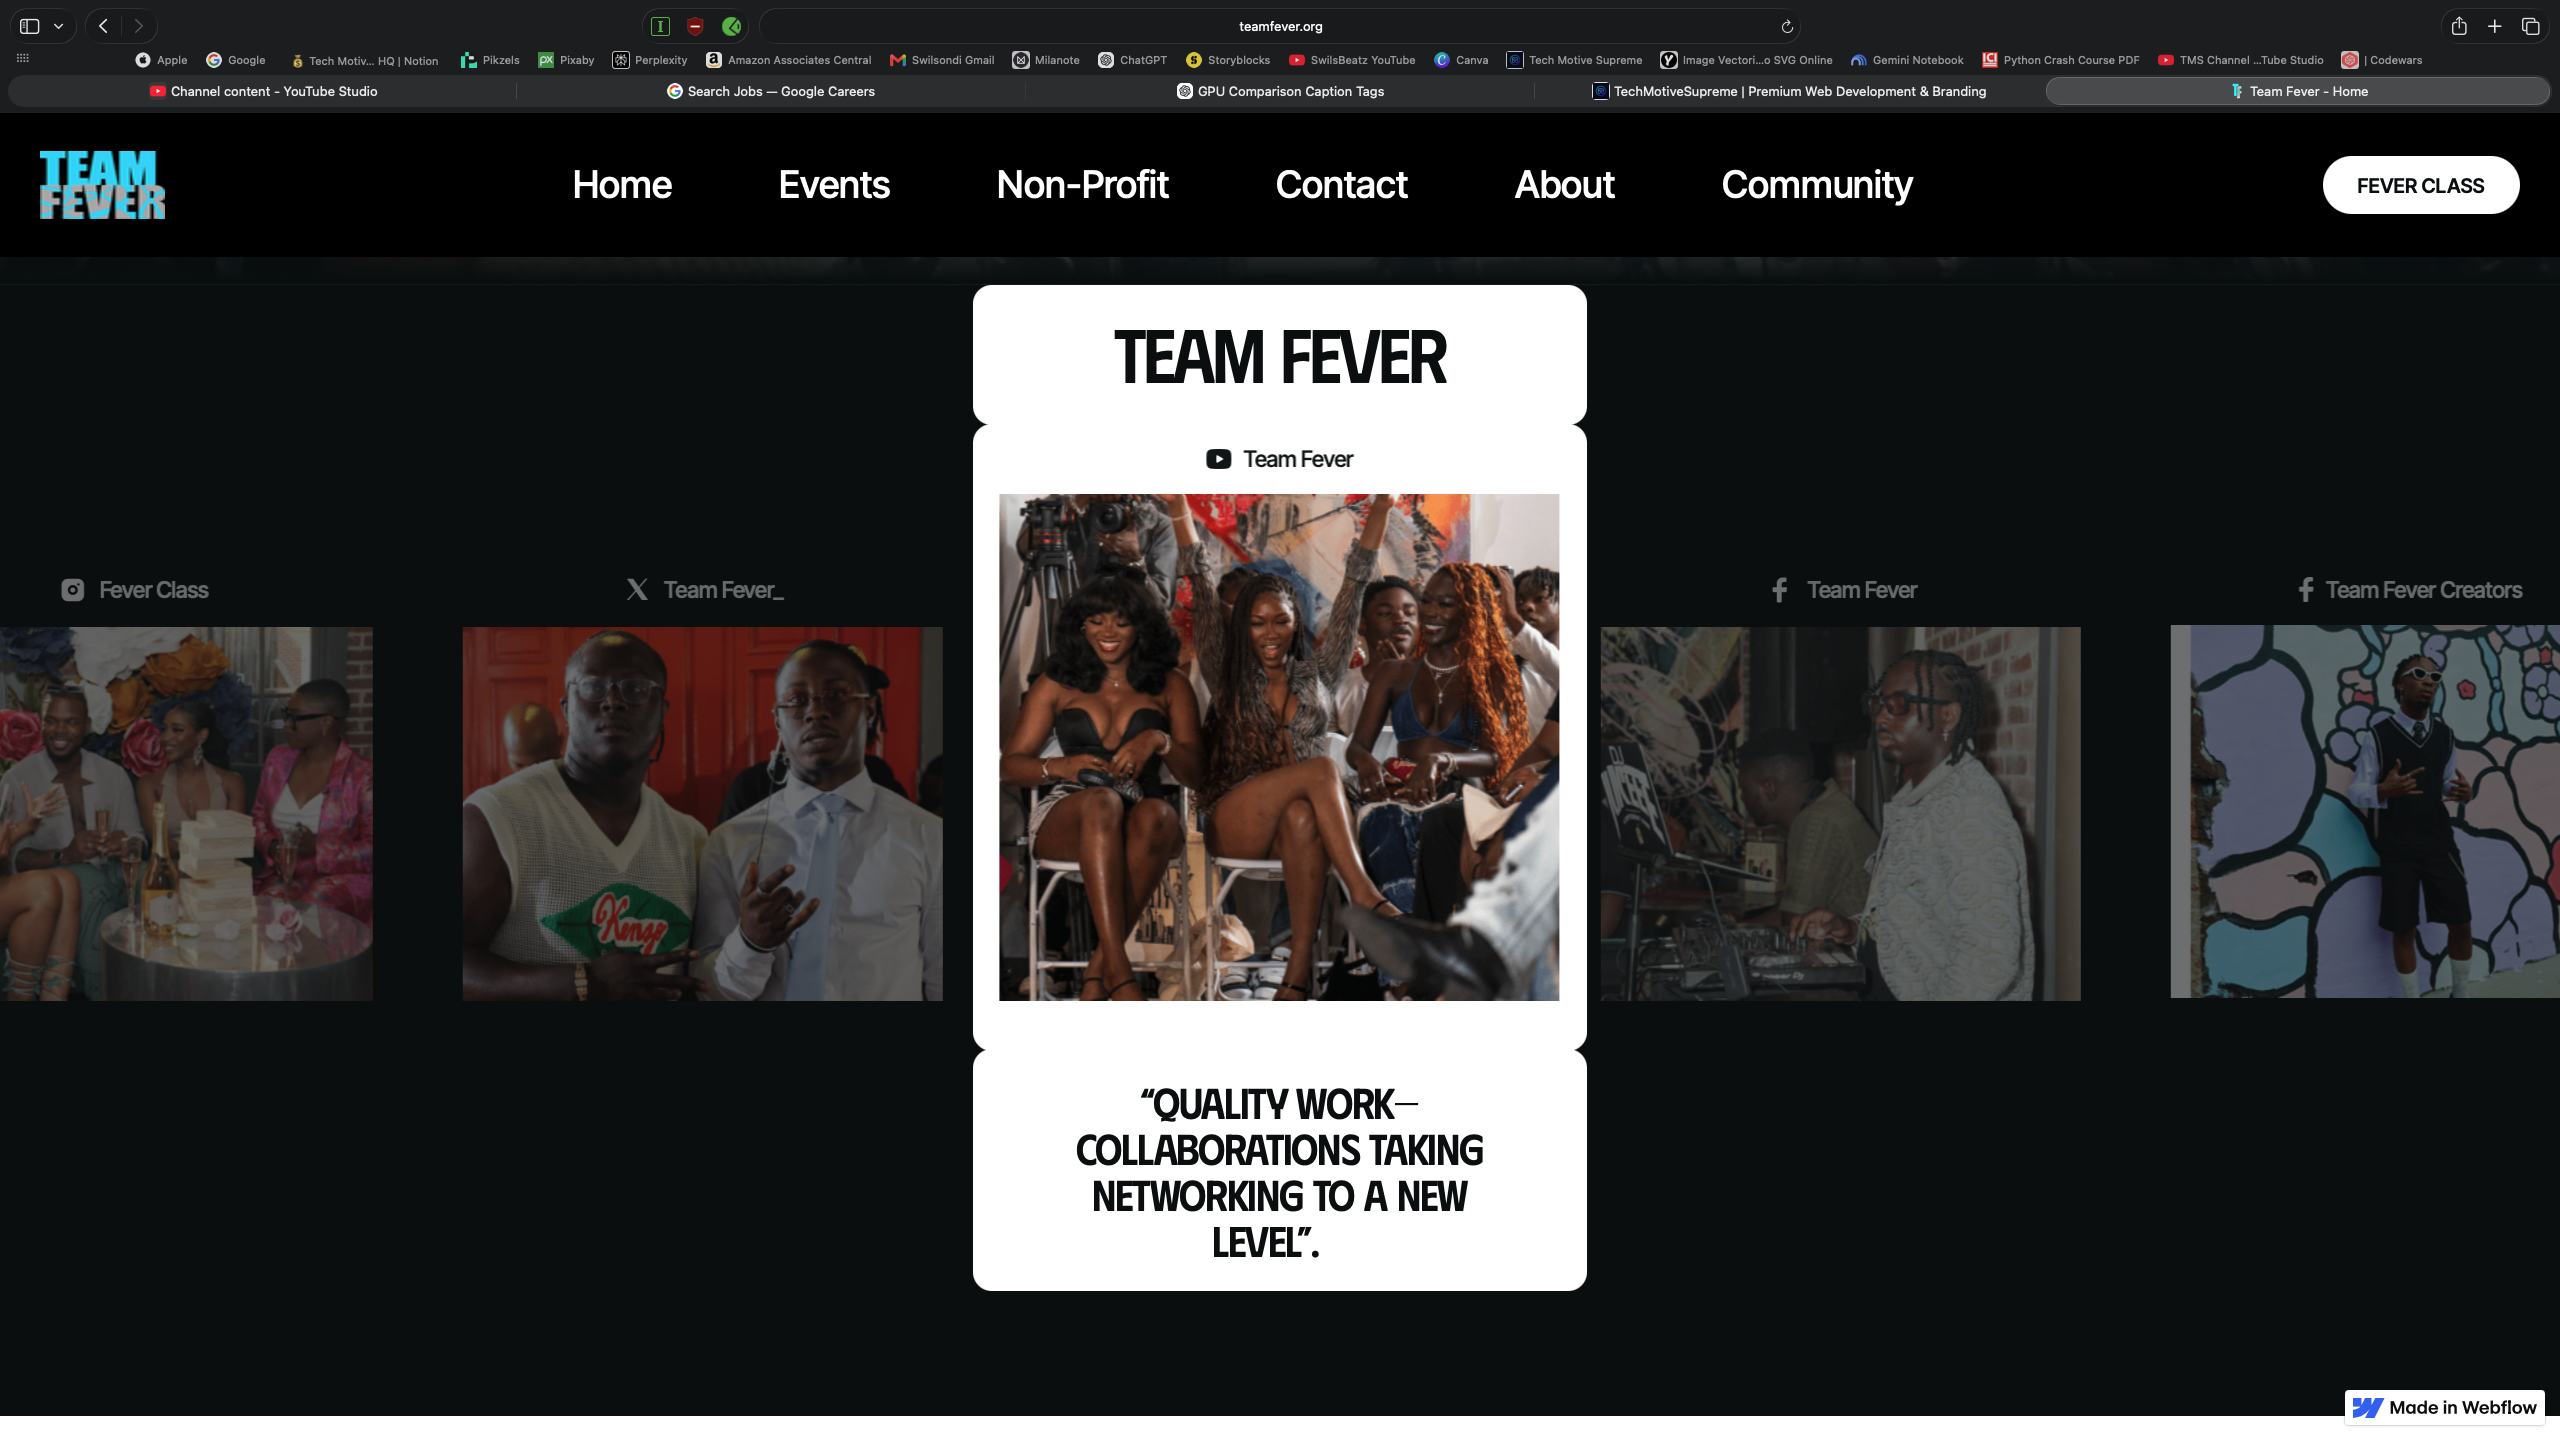
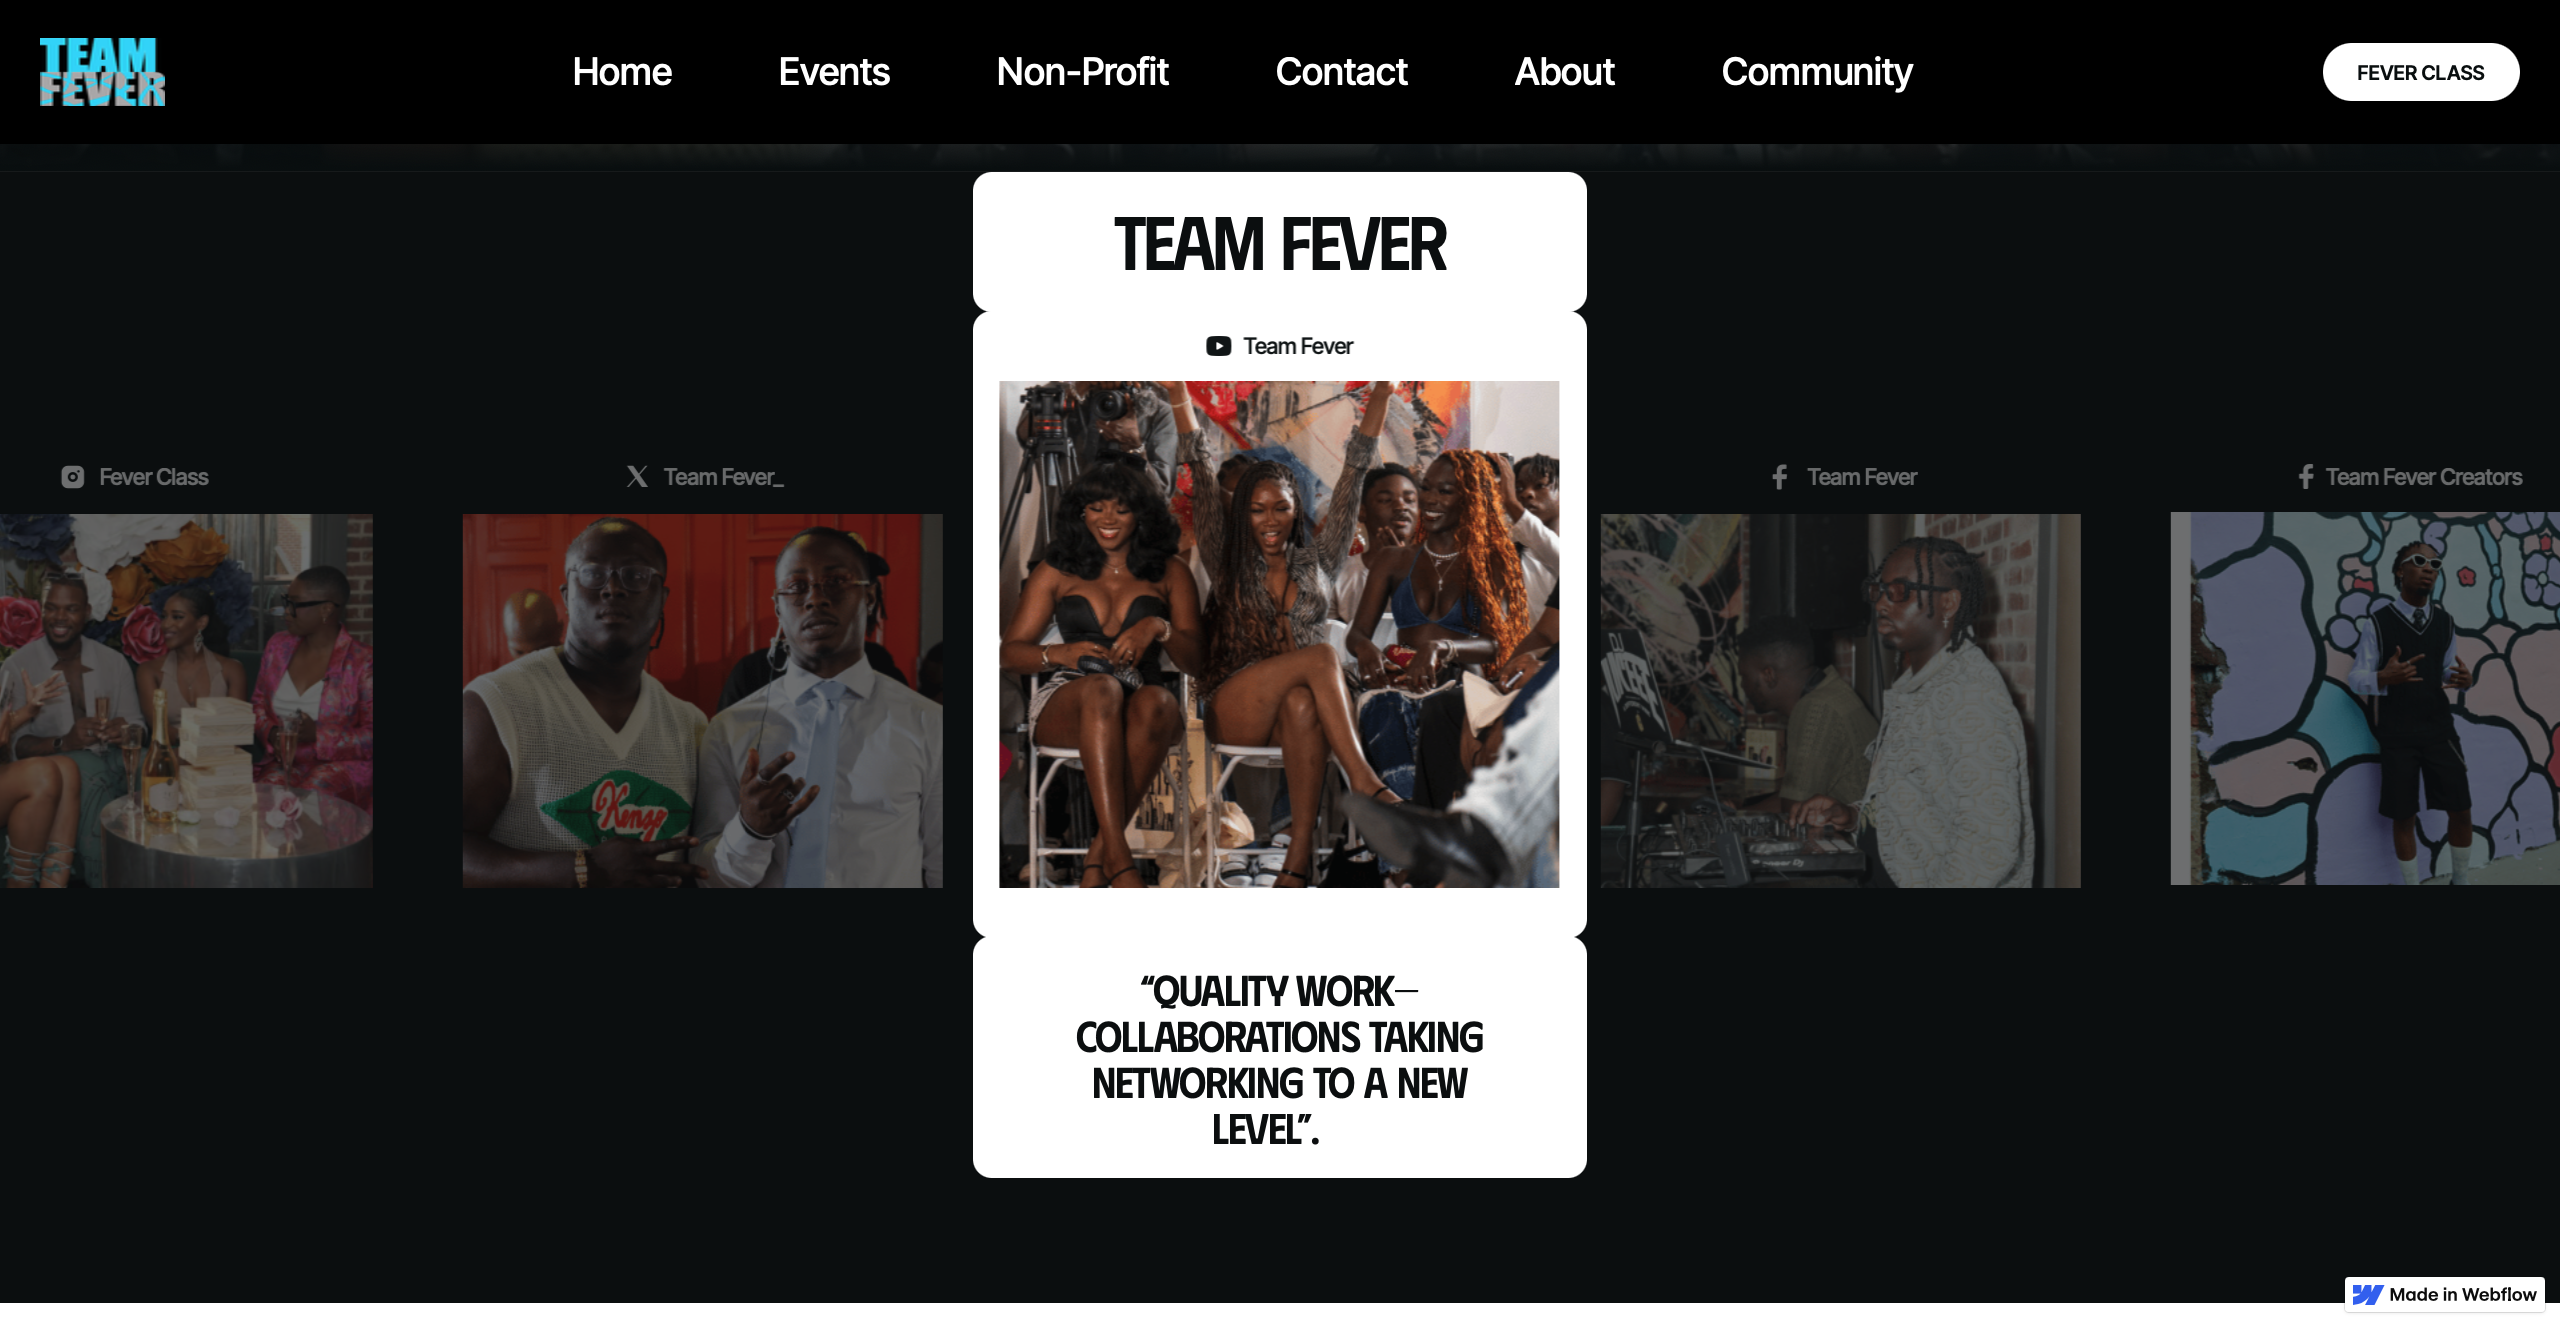
Add Team Fever screenshot to portfolio page

Changed region(s): [[0.0, 0.0, 1.0, 0.896], [0.8438, 0.3399, 1.0, 0.7106], [0.9062, 0.9578, 1.0, 0.9887]]

diff --git a/demo/src/pages/PortfolioPage.jsx b/demo/src/pages/PortfolioPage.jsx
@@ -6,6 +6,7 @@ import Footer from "@/components/Footer"
 import { motion } from "framer-motion"
 import { ArrowRight, ExternalLink, Globe, Palette, Zap, Target, LifeBuoy } from "lucide-react"
 import { Helmet } from "react-helmet"
+import teamFeverScreenshot from "@/assets/teamfever-screenshot.png"
 
 // Helper
 const normalize = (str) => (str ? str.trim().toLowerCase() : "")
@@ -17,8 +18,7 @@ const portfolioItems = [
 		title: "Team Fever",
 		subtitle: "Culture & Community Collective",
 		url: "https://www.teamfever.org",
-		image: null,
-		accent: "from-fuchsia-600 via-purple-600 to-indigo-700",
+		image: teamFeverScreenshot,
 		description:
 			"A live site built for Team Fever, a creative collective centered on culture, fashion, and community events. Includes event promotion, community sections, and social integration.",
 		features: ["Event Promotion", "Community Sections", "Social Integration", "Mobile Responsive"],
